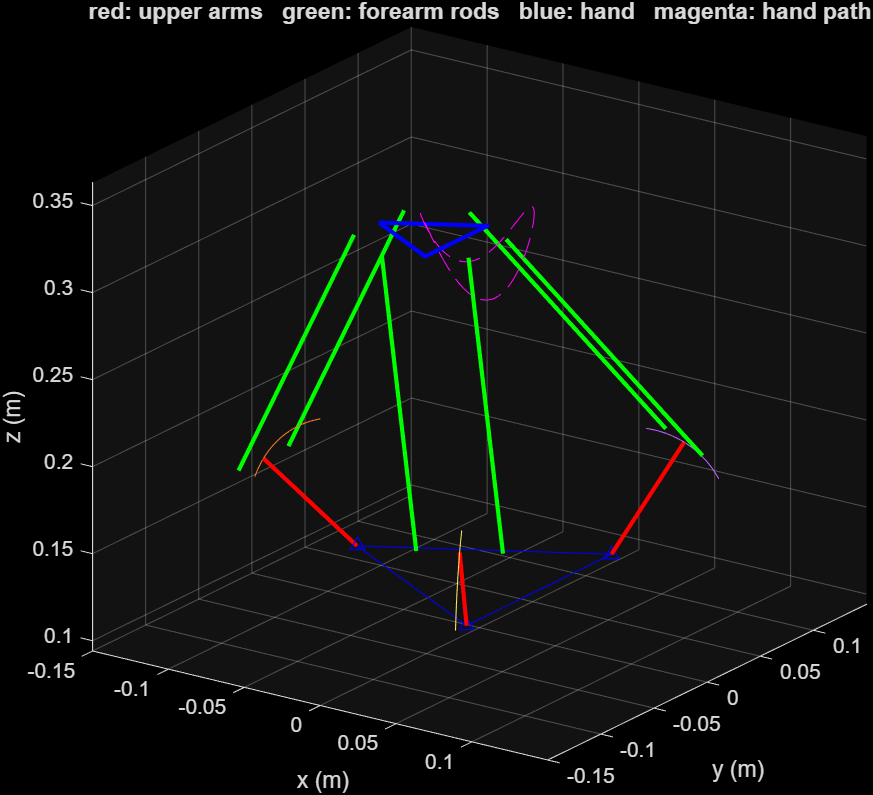
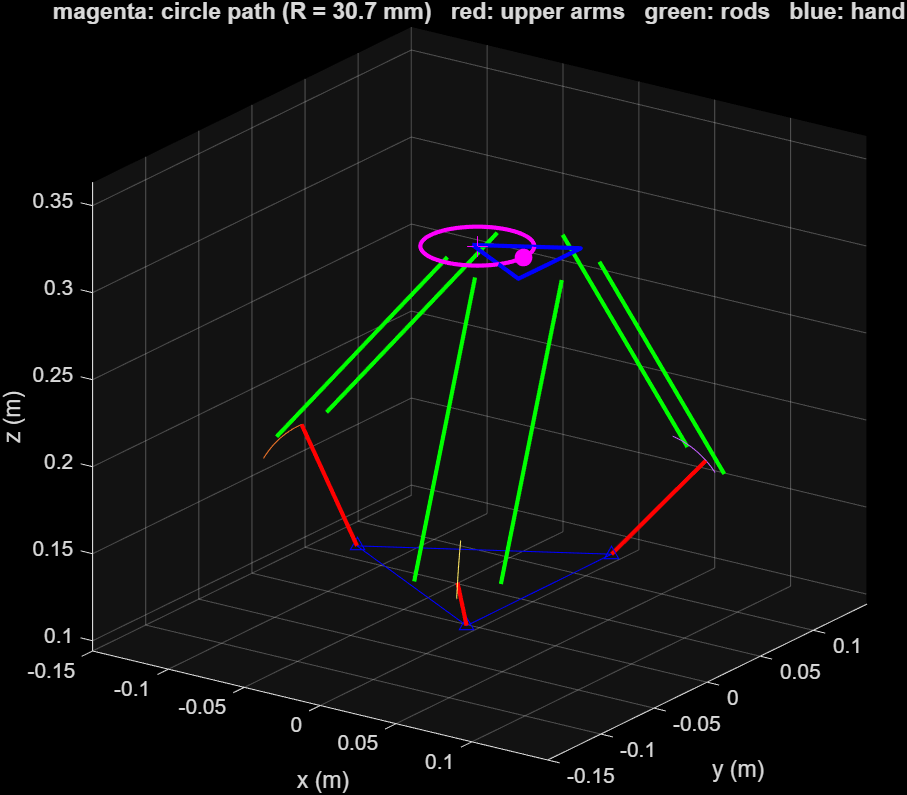
Circle motion only: animation moves the hand round a horizontal circle; remove helix demo

diff --git a/simulation/delta_symbolic_anim.m b/simulation/delta_symbolic_anim.m
@@ -52,16 +52,15 @@ for i = 1:3
     eq(i) = sum((C{i} - B{i}).^2) == Lb^2; %#ok<SAGROW>      % eq(i) : one equation per leg, unknown q_i
 end
 
-%% Hand path p(t): circle in x-y while the height bobs up and down, 2 laps
+%% Hand path p(t): horizontal circle at constant height, 2 laps
 Tlap = 5;      % Tlap : time for one lap (s)
 nLap = 2;      % nLap : number of laps
-Az   = 0.020;  % Az   : height amplitude (m)
-p0   = deltaFK(P.qMid*[1 1 1], P);   % p0 : centre of the path = hand position with every arm at mid-travel
+p0   = deltaFK(P.qMid*[1 1 1], P);   % p0 : centre of the circle = hand position with every arm at mid-travel
 % Rc : circle radius (m) = 90 % of the largest circle inside the rope end-stops and the rod-end tilt limit
-Rc = 0.9*min(arrayfun(@(zz) maxRadius(P, zz, 1, p0(1:2)), p0(3) + linspace(-Az, Az, 9)));
+Rc = 0.9*maxRadius(P, p0(3), 1, p0(1:2));
 pt = [p0(1) + Rc*cos(2*pi*t/Tlap);   % pt : hand position as a function of time, p(t)
       p0(2) + Rc*sin(2*pi*t/Tlap);
-      p0(3) + Az*sin(4*pi*t/Tlap)];
+      p0(3) + 0*t];                  % 0*t keeps z a function of t (same height all the way round)
 
 %% Solve eq. for q_i(x,y,z)
 % Expanding |C_i - B_i|^2 = Lb^2 gives  a*cos(q) + b*sin(q) + c = 0  (cos^2 + sin^2 = 1 removes the squares).
@@ -99,8 +98,8 @@ qs = rad2deg(cell2mat(arrayfun(qf, tv, 'UniformOutput', false))); % qs : q at ev
 ps = cell2mat(arrayfun(pf, tv, 'UniformOutput', false));          % ps : hand position at every sample (m)
 assert(all(qs(:) > P.qMin & qs(:) < P.qMax), 'path leaves the rope limits');        % rope end-stops
 assert(all(rodEndTilt(ps, P) < P.tiltMax, 'all'), 'path tilts a rod end past its limit');  % rod-end tilt
-fprintf('circle radius %.1f mm, height +-%.0f mm; q in [%.1f %.1f] deg, max rod-end tilt %.1f deg\n', ...
-    1e3*Rc, 1e3*Az, min(qs(:)), max(qs(:)), max(rodEndTilt(ps, P), [], 'all'));
+fprintf('circle radius %.1f mm at height %.1f mm; q in [%.1f %.1f] deg, max rod-end tilt %.1f deg\n', ...
+    1e3*Rc, 1e3*p0(3), min(qs(:)), max(qs(:)), max(rodEndTilt(ps, P), [], 'all'));
 
 %% Plot q, dq, ddq vs time (numeric values of the symbolic results: fplot on these long expressions is very slow)
 figure('Name', 'Shoulder kinematics')
@@ -136,12 +135,16 @@ Ab = [A{:} A{1}];
 plot3(Ab(1,:), Ab(2,:), Ab(3,:), 'b^-')                      % blue triangles: shoulder pivots A_i (base)
 for i = 1:3, plot3(Bn{i}(1,:), Bn{i}(2,:), Bn{i}(3,:)), end  % thin arcs: elbow paths B_i(t)
 opts = {'AnimationRange', [0 nLap*Tlap], 'FrameRate', fps};
-fanimator(H_arm, opts{:}); fanimator(H_forearm, opts{:}); fanimator(H_hand, opts{:});
-plot3(ps(1,:), ps(2,:), ps(3,:), '--m')                      % magenta dashes: hand path p(t)
+Pn = cell2mat(arrayfun(pf, tf, 'UniformOutput', false));     % Pn : hand centre at every frame
+H_centre  = @(tt) plot3(Pn(1,fr(tt)), Pn(2,fr(tt)), Pn(3,fr(tt)), 'mo', 'MarkerSize', 8, 'MarkerFaceColor', 'm');  % moving hand centre
+fanimator(H_arm, opts{:}); fanimator(H_forearm, opts{:}); fanimator(H_hand, opts{:}); fanimator(H_centre, opts{:});
+th = linspace(0, 2*pi, 181);                                 % circle path p(t), drawn once
+plot3(p0(1) + Rc*cos(th), p0(2) + Rc*sin(th), p0(3) + 0*th, '-m', 'LineWidth', 2)
+plot3(p0(1), p0(2), p0(3), 'm+', 'MarkerSize', 10)            % circle centre
 hold off
 axis equal; grid on; view(35, 20); xlabel('x (m)'); ylabel('y (m)'); zlabel('z (m)')
-axis([-0.15 0.15 -0.15 0.15 H - 0.03 max(ps(3,:)) + 0.03])   % hand works above the shoulder pivots (arms up)
-title('red: upper arms   green: forearm rods   blue: hand   magenta: hand path')
+axis([-0.15 0.15 -0.15 0.15 H - 0.03 p0(3) + 0.05])          % hand works above the shoulder pivots (arms up)
+title(sprintf('magenta: circle path (R = %.1f mm)   red: upper arms   green: rods   blue: hand', 1e3*Rc))
 
 playAnimation
 

diff --git a/docs/symbolic-math/07-animation-script.md b/docs/symbolic-math/07-animation-script.md
@@ -24,12 +24,13 @@ elbow-out solution by comparing both with `deltaIK`. `qIK` is then three formula
 
 ## Step 3: the hand path
 
-$$p(t) = \big[x_0 + R_c\cos\tfrac{2\pi t}{5},\ \ y_0 + R_c\sin\tfrac{2\pi t}{5},\ \ z_0 + 0.02\sin\tfrac{4\pi t}{5}\big]$$
+$$p(t) = \big[x_0 + R_c\cos\tfrac{2\pi t}{5},\ \ y_0 + R_c\sin\tfrac{2\pi t}{5},\ \ z_0\big]$$
 
 - Centre p₀: hand position with every arm at mid-travel.
-- Rc = 0.9 × the largest circle `maxRadius` allows over the ±20 mm height range, 1° clear of the rope stops and the
-  rod-end tilt limit, giving Rc = 30.7 mm.
-- 5 s per lap, 2 laps; the height goes up and down twice per lap.
+- A horizontal circle at constant height z₀ = 313 mm.
+- Rc = 0.9 × the largest circle `maxRadius` allows at that height, 1° clear of the rope stops and the rod-end tilt
+  limit, giving Rc = 30.7 mm.
+- 5 s per lap, 2 laps.
 
 ## Step 4: substitute and differentiate (parts 4–5)
 
@@ -47,7 +48,7 @@ through `subs` produces them.
 | Check | Tolerance | Result |
 |---|---|---|
 | q(t) vs `deltaIK` at 13 times | 1e-9 rad | ✓ (≈ 1e-14) |
-| rope stops, every sample | −85° … −2.8° | q in −73.5° … −17.6° ✓ |
+| rope stops, every sample | −85° … −2.8° | q in −59.5° … −31.2° ✓ |
 | rod-end tilt, every sample | < 13° | max 10.8° ✓ |
 
 A failed check stops the script with a message, so a wrong branch or an unreachable path cannot quietly produce a
@@ -62,7 +63,8 @@ wrong animation.
 - `fanimator` gets three drawing functions, one per colour: upper arms (red), rod pairs (green, each rod w/2 either
   side along vᵢ), hand triangle (blue). Each draws one line object with NaN gaps, since `fanimator` needs exactly one
   object per function.
-- `playAnimation` plays it in real time. The magenta dashed line is the hand path, the thin arcs the elbow paths.
+- `playAnimation` plays it in real time. The solid magenta circle is the hand path (centre marked +), the magenta dot rides on the hand centre, the thin
+  arcs are the elbow paths.
 
 ## The whole chain on one page
 

diff --git a/simulation/README.md b/simulation/README.md
@@ -20,10 +20,9 @@ Open MATLAB in this folder, then:
 |---|---|
 | `build_delta_haptic` | Builds `delta_haptic.slx` (Simscape Multibody) from the STEP files; all parameters `P.*` are at the top |
 | `circle_demo` | Grabs the handle top and moves it round the largest allowed circle, 3 laps (live 3D view) |
-| `helix_demo` | Traces the edge of the workspace: lowest and highest point in each of 3 laps, 7 s per lap |
 | `delta_symbolic_anim` | Classroom-style symbolic IK (`solve`), velocity/acceleration (`diff`) and a `fanimator` animation |
 
-`circle_demo(false)` / `helix_demo(false)` run without real-time pacing. Generated models (`*.slx`) are not
+`circle_demo(false)` runs without real-time pacing. Generated models (`*.slx`) are not
 stored in the repo; build them with the commands above.
 
 ## Files
@@ -31,7 +30,7 @@ stored in the repo; build them with the commands above.
 | File | Purpose |
 |---|---|
 | `build_delta_haptic.m` | Model builder and parameter set `P` (geometry, masses, drive, limits) |
-| `circle_demo.m`, `helix_demo.m` | Demo paths |
+| `circle_demo.m` | Circle demo on the Simscape model |
 | `run_grab_path.m` | Shared: copies the model, adds a 6-DOF "grab" joint on the handle top and drives it along a path |
 | `maxRadius.m` | Largest circle at a height that stays inside the rope end-stops and the rod-end tilt limit |
 | `rodEndTilt.m` | Rod-end misalignment angle per leg for a hand position |
@@ -81,7 +80,6 @@ Checked during development (the checking and dynamics scripts are not in this re
 | Free-fall start acceleration, symbolic vs Simscape | within 0.9 % |
 | Base screw holes vs bracket | within 0.005 mm (front), 0.013 mm (rear slot) |
 | Circle demo (13° rod-end limit) | radius 28.3 mm, tracking 0.07 mm, tilt ≤ 10° |
-| Helix demo | handle height 278.8–384.2 mm, widest circle 35.6 mm, tracking 0.28 mm, tilt ≤ 12.5° |
 
 ## Assumptions
 

diff --git a/README.md b/README.md
@@ -19,7 +19,7 @@ symbolic kinematics animation. More photos: [`media/`](media/README.md).
 
 1. MATLAB R2026a with Simulink, Simscape, Simscape Multibody and Symbolic Math Toolbox.
 2. Open MATLAB in `simulation/` and run `build_delta_haptic` (builds `delta_haptic.slx` from the STEP files in
-   `hardware/mechanical/cad/`), then `circle_demo`, `helix_demo` or `delta_symbolic_anim`.
+   `hardware/mechanical/cad/`), then `circle_demo` or `delta_symbolic_anim`.
 
 Details, results and assumptions: [`simulation/README.md`](simulation/README.md). Parts: [`hardware/mechanical/README.md`](hardware/mechanical/README.md).
 
